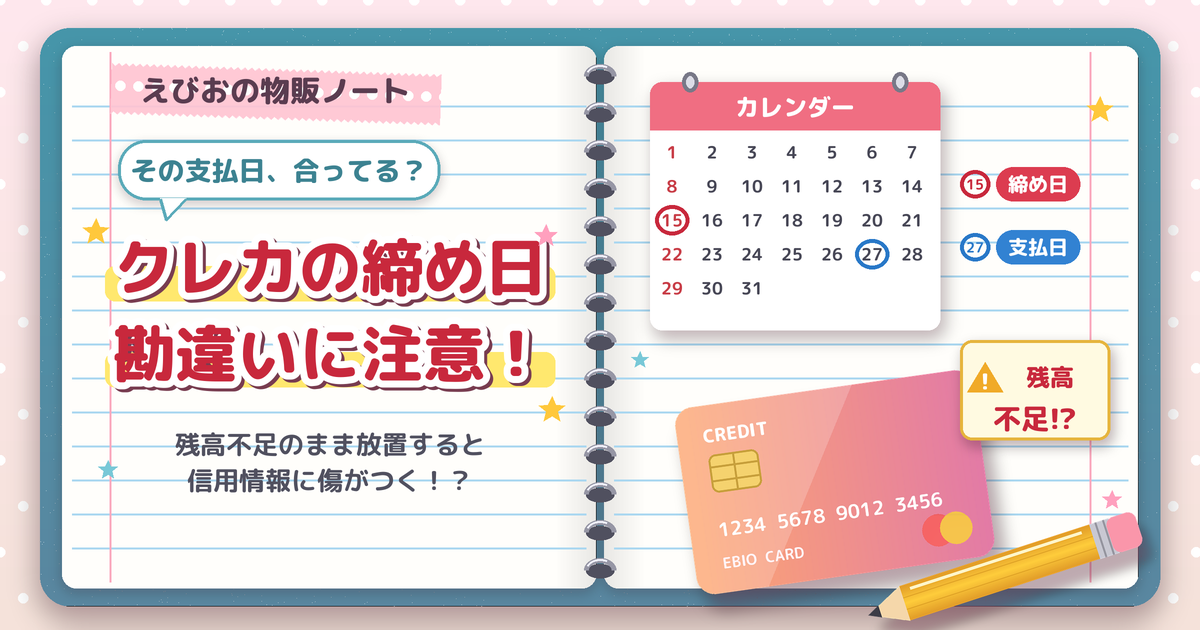
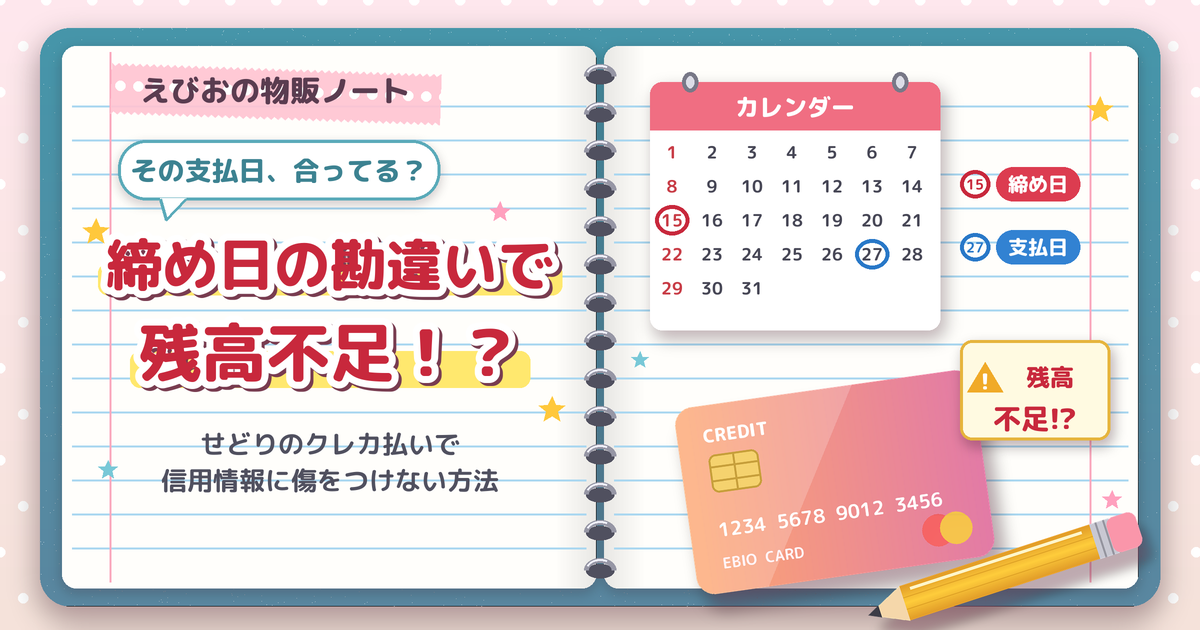
クレカの記事：タイトルを1案目に決定、アイキャッチの文字をタイトルに合わせた
Claude-Session: https://claude.ai/code/session_01LwpR5z4Rtokk7yhfYad4Zk

Changed region(s): [[0.0617, 0.3317, 0.4933, 0.4825], [0.0617, 0.5127, 0.4625, 0.6333], [0.1233, 0.6635, 0.4317, 0.7841]]

diff --git a/posts/2026-11-22-credit-shimebi.html b/posts/2026-11-22-credit-shimebi.html
@@ -2,6 +2,7 @@
 タイトル案1：締め日の勘違いで残高不足！？せどりのクレカ払いで信用情報に傷をつけない方法
 タイトル案2：クレカの引き落としが落ちない！？せどらーが知っておきたい締め日・支払日と信用情報
 タイトル案3：1回の滞納が住宅ローンに響くことも！せどりでクレカを使う人の締め日・支払日の注意点
+決定したタイトル：1案目（2026/11/22 えびおが選んだ）
 カテゴリー：せどり
 スラッグ：credit-shimebi
 -->

diff --git a/neta.md b/neta.md
@@ -148,4 +148,4 @@
 済・ひとりで全部やるのはもう限界！？ワンオペで頑張るネットショップ・せどりの人へ … 公開済み：https://iseebio.jp/wanope-genkai/（2026/11/22 公開・2148番）（2026/11/21 アプリ版で下書き：2148番。スラッグ wanope-genkai。カテゴリーせどり、投稿者えびお。えびおの話（ひとりでやっている・いっぱいいっぱいで限界がくる・人を雇うにも方法と難しさがあり、雇うほどの売上がないパターンもある・Amazon1本なら1,000万円くらいまではひとりでできる感覚・限界はやり方しだい・思い込まず疲れたら休む（納品だけはやって仕入れは今日はしない、など）・楽天ネーションズやコンサルの仲間に会って元気と知恵をもらう・行き詰まった人は連絡をくれれば相談に乗る）をもとに書いた。調べたもの：ひとりで6年の人は年商5,000〜7,000万円まで、外注で年商1億の人、外注の3つの形（業者・業務委託・パート）、時間をお金で買う考え方、燃え尽きた人の体験、海外記事の孤独の対策。タイトルは案1に決定（11/21）。えびおの指示で 2026/11/22 0:01 に予約公開（11/21に予約）。要確認だった1,000万円は、えびおに聞いて「月商」に（年商にすると1億円を超えるくらい、と書き足し。11/21）。要確認0。アイキャッチは作り直して、深夜2時にひとりで作業する人の絵（Amazon・楽天・Yahoo!の画面・やることメモ・段ボール・付せん「疲れたら休んでいい！」）、posts/2026-11-21-wanope-genkai.png。えびおのOKでメディア2149番を設定（11/21）。あわせて読みたいは rakuten-shutten・sedori-consul）
 下・玄関に置いたら配達完了！？置き配のガイドライン案をネットショップ目線で読んでみた（2026/11/22 アプリ版で下書き：2154番。スラッグ okihai-guideline。カテゴリーせどり、投稿者えびお。えびおの依頼（明日公開予定）：国交省が2026/11/20に置き配・宅配ボックスのガイドライン案を公表しパブコメ開始。えびおの話（なくなったときの補償が心配・配達完了で引き渡しが終わるとそのあとは客側の責任になるのでは・EC側では置き配が増えていて年々増える流れなので対応していくしかない）をもとに書いた。調べたもの（11/22）：パブコメ2本（ガイドライン案・標準宅配便運送約款の改正案、12/11まで、約款は2027/4/1施行予定）、引き渡しの時点（置いた時点）と責任の分け方（外箱も中身も壊れ→配送会社、中身だけ→お店、見当たらない→配送会社が誤配を調べる）、お店に求めること（必須2つ・望ましい6つ）、各社の補償（佐川・日本郵便の置き配保険・ヤマトEAZY・楽天あんしんショッピング30万円・Amazonは出品者発送なら出品者へ）、数字（置き配利用率31.0%・再配達率7.6%＝2026年4月、2030年度50%目標、Amazon置き配80%超）、大臣の「対面が原則」の発言。楽天の置き配原則必須化（2027/2/26）と、えびおの店の設定（化粧品・食品・充電式などは受け付けない、宅配便の雑貨は受け付ける。11/20に決めたこと）を入れた。違反点数の数字は書いていない。要確認0。タイトルは案1に決定（11/22。下書きも案1のまま）。アイキャッチは緑の見開きノート（玄関・段ボール「置き配」・宅配BOX・配達完了のスマホ通知・ガイドライン案の紙）、posts/2026-11-23-okihai-guideline.png。えびおのOKでメディア2155番を設定（11/22）、代替テキストに画像の文字を入れた。プレビュー確認済み。えびおの指示で 2026/11/23 0:01 に予約公開（11/22に予約）。あわせて読みたいは rakuten-shutten・henpin-risk）
 下・配達完了なのに全額返金！？Amazonマーケットプレイス保証申請の怖さ（2026/11/22 クラウド版で下書き：2158番。スラッグ marketplace-hoshou。カテゴリーせどり。えびおの話：自己発送でもめたときに購入者が返金を求める制度で、申請されると出品者はほぼ負ける。制度のしくみ（購入者は出品者に連絡して48時間→申請、未着はお届け予定日の最終日から3日、期限90日、上限30万円）、出品者に起きること（返金は売上から引かれる・注文不良率1％未満・回答期限はフォーラム掲載のAmazonメールで72時間・再審議30日）、セラーフォーラムの声（配達完了でも全額返金、再審議3分で却下、受領サインの証明でも約3万円返金、4回却下、解決まで2か月、共同で法的措置や公取委への相談の呼びかけ。勝った例：発送時の写真でAmazon負担、再審議で取り消し、不良率に数えられず）、経産省の会合（利用事業者の4割がAmazonの返品判断に納得していない）、負けやすい理由3つ（48時間で自動承認など4条件・ポスト投函は受領印がなく証拠が弱い・理由が分かりにくい）、対策（24時間以内の返信・追跡番号・高い商品は受領印のある宅配便・発送時の写真・再審議・配送業者に請求・SAFE-T）。クラウド版からAmazon公式ヘルプとセラーフォーラムの本文は開けず、検索結果で調べたので、ルールの数字は【要確認】8か所。えびおの体験を入れる場所の【要確認】が2か所（実際に申請されたときの話・ふだん気をつけていること）。計10か所。タイトルはひとまず1案目。アイキャッチはクラウドで作成（M PLUS Rounded 1c・見開きノート）：posts/2026-11-22-marketplace-hoshou.png。アイキャッチの設定・投稿者を「えびお」に直す・セラーセントラルのヘルプで【要確認】を確かめるのは、アプリ版で。2026/11/22 アプリ版で仕上げ：セラーセントラルのヘルプで数字を確かめて直した（48時間・3日・90日・1％・再審議30日はヘルプどおり。30万円の上限はヘルプに見当たらず削除。回答期限は追加情報のリクエストから48時間、再審議後の追加情報は72時間。自動承認の条件は3つ足した。誤配は「指定住所に届けなかった」が自動承認の条件なので負けやすいと書き直し。SAFE-TはAmazonが行った返金だけが対象なので、まず再審議と書き直し）。えびおの体験2か所を入れた（申請されたがお客様の勘違いで取り下げ・何もなかった／ふだんから申請にならないよう気をつけ、なりそうなら折れる）。投稿者をえびおに、アイキャッチ設定済み（メディア2160）。経産省の資料の【要確認】は、えびおの指示で印だけ消して文はそのまま。【要確認】は0か所）
-下・締め日の勘違いで残高不足！？せどりのクレカ払いで信用情報に傷をつけない方法（2026/11/22 クラウド版で下書き：2165番。スラッグ credit-shimebi。カテゴリーせどり。きっかけはYahoo!ニュースのLIMOの記事「クレカの支払いが返済日から61日以上遅れると信用情報に異動、10万円が30日遅れたら遅延損害金は上限1200円」（クラウド版からは記事の本文が開けず、見出しだけ確かめた）。えびおの話：せどりはクレカで仕入れる人が多い。月末締め・10日締めなど締め日と支払日はカードでちがうので必ず把握する。勘違いで残高不足になり、放置すると信用情報に傷がつき、住宅ローンなどに響く（不動産業界にいたのでよく分かる。銀行は全部見ている）。信用情報機関はCIC・JICC・全国銀行個人信用情報センターの3つ。回転の良い早く売れる商品で、どんどんお金を増やそう。カード会社や信用情報機関の公式ページはクラウド版から開けず検索結果で調べたので【要確認】7か所（ニュースの中身・各社の締め日と支払日・1日の遅れの記録・記録が残る期間・3機関の会員・えびおの体験2か所）。タイトルはひとまず1案目。アイキャッチはクラウドで作成（M PLUS Rounded 1c・見開きノート）：posts/2026-11-22-credit-shimebi.png。あわせて読みたい：/sedori-curejito/・/point-site-hikaku/）
+下・締め日の勘違いで残高不足！？せどりのクレカ払いで信用情報に傷をつけない方法（2026/11/22 クラウド版で下書き：2165番。スラッグ credit-shimebi。カテゴリーせどり。きっかけはYahoo!ニュースのLIMOの記事「クレカの支払いが返済日から61日以上遅れると信用情報に異動、10万円が30日遅れたら遅延損害金は上限1200円」（クラウド版からは記事の本文が開けず、見出しだけ確かめた）。えびおの話：せどりはクレカで仕入れる人が多い。月末締め・10日締めなど締め日と支払日はカードでちがうので必ず把握する。勘違いで残高不足になり、放置すると信用情報に傷がつき、住宅ローンなどに響く（不動産業界にいたのでよく分かる。銀行は全部見ている）。信用情報機関はCIC・JICC・全国銀行個人信用情報センターの3つ。回転の良い早く売れる商品で、どんどんお金を増やそう。カード会社や信用情報機関の公式ページはクラウド版から開けず検索結果で調べたので【要確認】7か所（ニュースの中身・各社の締め日と支払日・1日の遅れの記録・記録が残る期間・3機関の会員・えびおの体験2か所）。タイトルは、えびおが1案目に決定（2026/11/22）。アイキャッチはクラウドで作成（M PLUS Rounded 1c・見開きノート。文字はタイトルに合わせて「締め日の勘違いで 残高不足！？」）：posts/2026-11-22-credit-shimebi.png。あわせて読みたい：/sedori-curejito/・/point-site-hikaku/）
